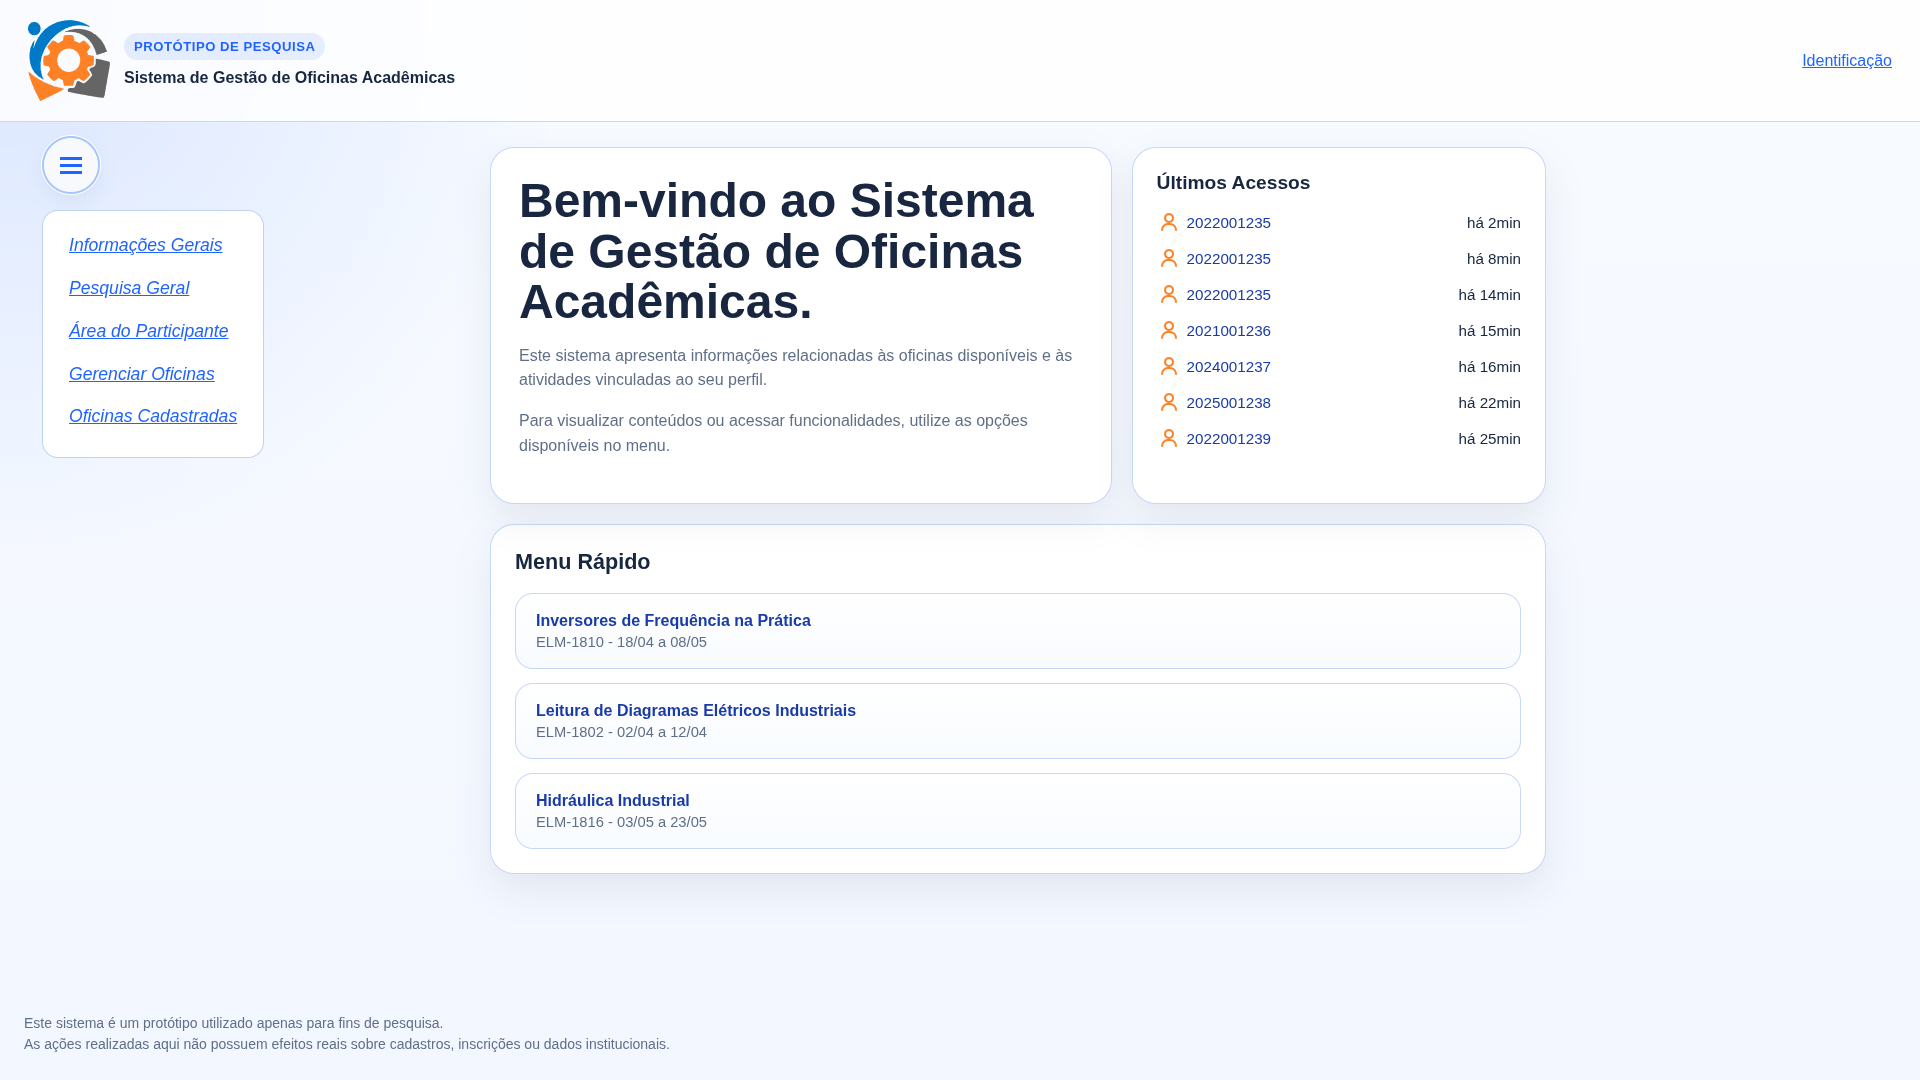
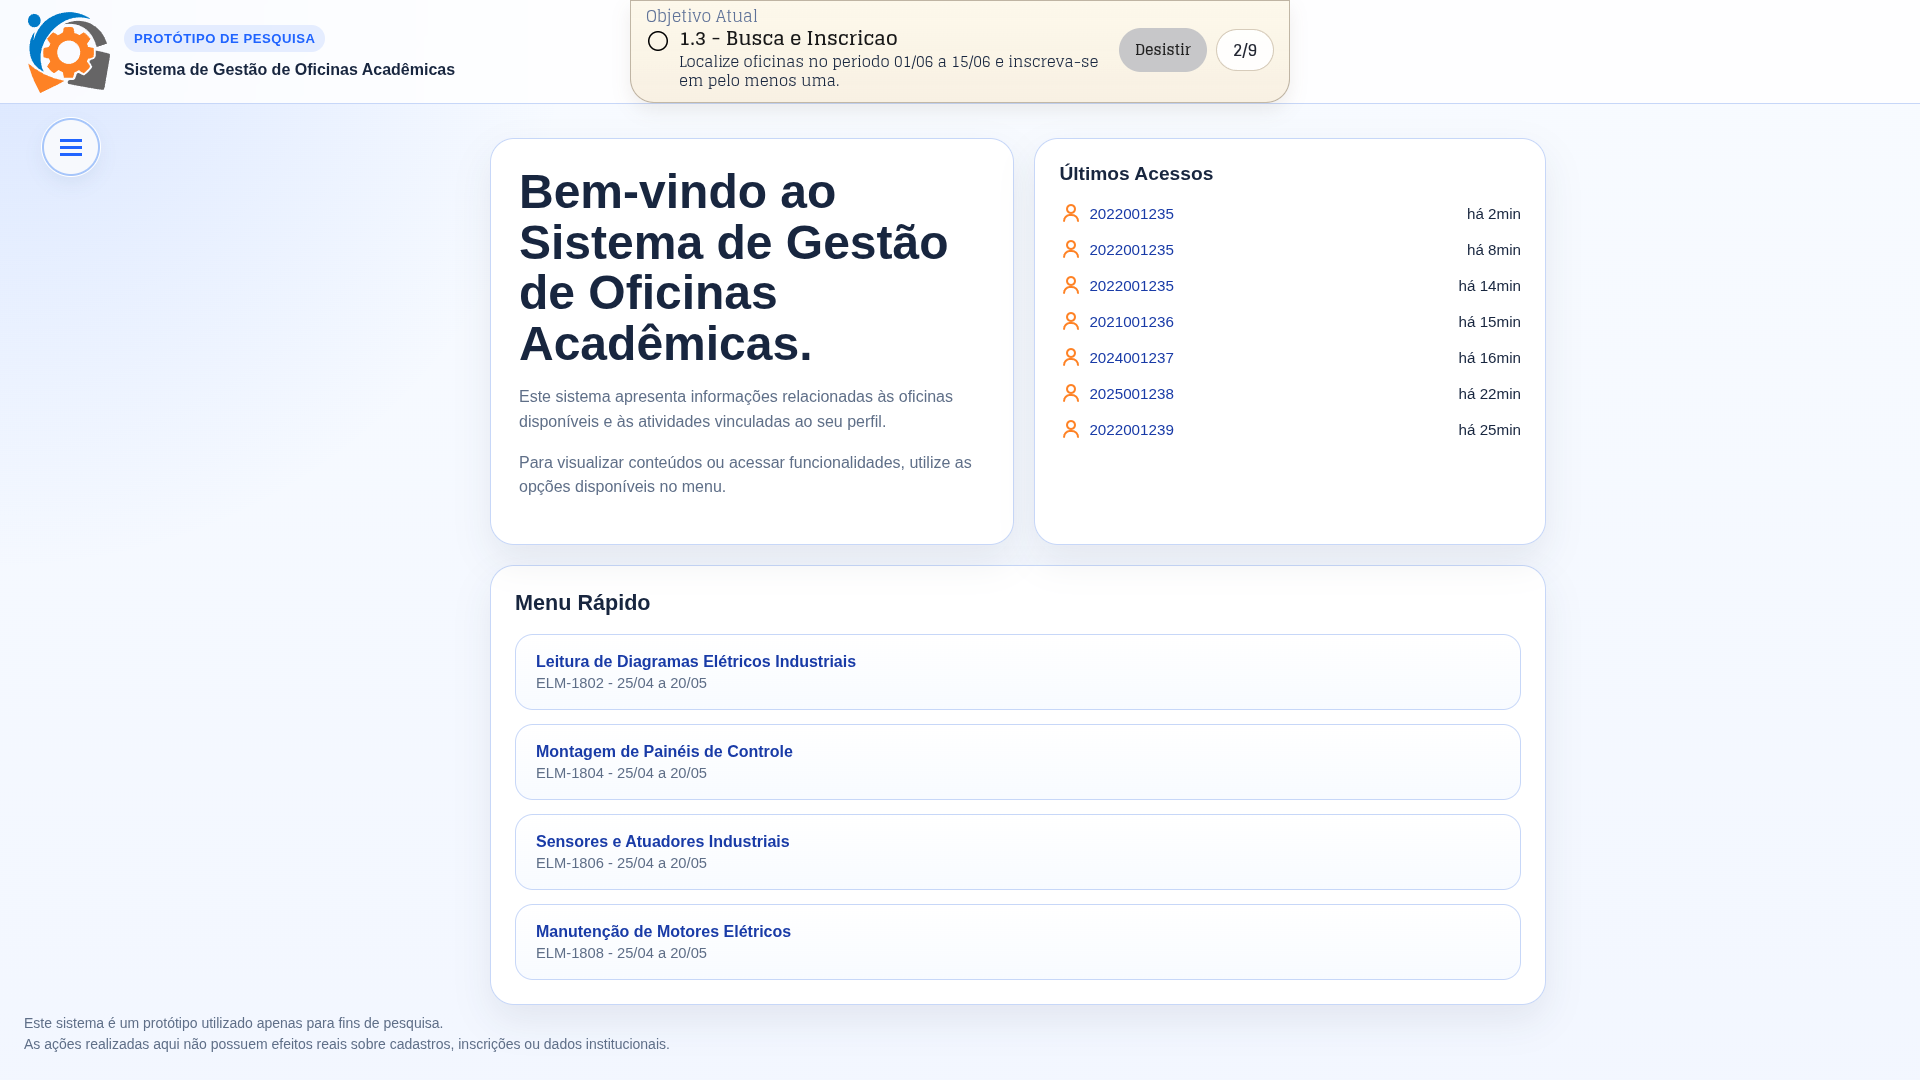
Organize research screenshots and metrics outputs

diff --git a/src/v2/styles.css b/src/v2/styles.css
@@ -137,17 +137,32 @@ button img {
 .header-title-area h1 {
   margin: 0;
   color: var(--template-navy);
-  font-size: 2.73rem;
+  font-size: clamp(1rem, 2.2vw, 2rem);
   font-weight: 600;
-  line-height: 1.05;
+  line-height: 1.08;
   letter-spacing: 0;
+  max-width: 14.5em;
+  text-wrap: balance;
 }
 
 .header-title-area {
   display: flex;
   align-items: center;
-  gap: clamp(16px, 1.46vw, 28px);
+  gap: clamp(8px, 1.05vw, 12px);
+  flex: 1 1 auto;
   min-width: 0;
+  max-width: min(590px, calc(50vw - 56px));
+}
+
+.header-logo {
+  width: clamp(82px, 6.7vw, 142px);
+  height: clamp(82px, 6.7vw, 137px);
+  flex: 0 0 auto;
+  object-fit: contain;
+}
+
+.app-shell:is([data-active-view="oficinas"], [data-active-view="gerenciar"]) .header-logo {
+  display: none;
 }
 
 .app-shell[data-active-view="oficinas"] .header-title-area::before,
@@ -4602,6 +4617,15 @@ body:has(.office-modal:not([hidden])) .toast-stack {
     font-size: 1.7rem;
   }
 
+  .header-title-area {
+    max-width: min(430px, calc(50vw - 36px));
+  }
+
+  .header-logo {
+    width: 82px;
+    height: 82px;
+  }
+
   .profile-button {
     font-size: 1.25rem;
     min-width: 178px;
@@ -4610,11 +4634,6 @@ body:has(.office-modal:not([hidden])) .toast-stack {
   .app-shell:is([data-active-view="oficinas"], [data-active-view="gerenciar"]) .profile-button {
     min-width: 180px;
     font-size: 1.25rem;
-  }
-
-  .app-shell:is([data-active-view="oficinas"], [data-active-view="gerenciar"]) .header-title-area::before {
-    width: 85px;
-    height: 85px;
   }
 
   .home-action-card {
@@ -4791,6 +4810,8 @@ body:has(.office-modal:not([hidden])) .toast-stack {
 
   .header-title-area {
     min-width: 0;
+    max-width: 100%;
+    flex: 1 1 100%;
   }
 
   .header-title-area h1 {
@@ -4798,9 +4819,9 @@ body:has(.office-modal:not([hidden])) .toast-stack {
     overflow-wrap: anywhere;
   }
 
-  .app-shell:is([data-active-view="oficinas"], [data-active-view="gerenciar"]) .header-title-area::before {
-    width: 85px;
-    height: 85px;
+  .header-logo {
+    width: 64px;
+    height: 64px;
   }
 
   .sidebar {

diff --git a/src/v2/app.js b/src/v2/app.js
@@ -53,6 +53,7 @@
   let carouselIntervalId = null;
   let hasQueuedMetricsExport = false;
   let currentViewName = "home";
+  let latestState = null;
   let quickGuideLastFocusedElement = null;
 
   function getViewportSnapshot() {
@@ -61,6 +62,42 @@
       height: global.innerHeight || documentRef.documentElement.clientHeight || 0,
       devicePixelRatio: global.devicePixelRatio || 1,
     };
+  }
+
+  function getOfficeModalTrackingViewName(state) {
+    if (!state || !state.isOfficeModalOpen || !state.selectedWorkshop) {
+      return "";
+    }
+
+    if (state.selectedWorkshopSource === "quick_access") {
+      return "home-modal-acesso-rapido";
+    }
+
+    if (state.selectedWorkshopSource === "manage") {
+      return "gerenciar-modal-minhas-oficinas";
+    }
+
+    return "oficinas-modal-explorar-oficinas";
+  }
+
+  function getCurrentTrackingViewName() {
+    const state = latestState || controller.getState();
+    const activeView = state.activeView || currentViewName || "home";
+    const officeModalViewName = getOfficeModalTrackingViewName(state);
+
+    if (officeModalViewName) {
+      return officeModalViewName;
+    }
+
+    if (quickGuideModal && !quickGuideModal.hidden) {
+      return "home-modal-guia-rapido";
+    }
+
+    if (profileMenu && profileMenu.open) {
+      return `${activeView}-menu-perfil`;
+    }
+
+    return activeView;
   }
 
   function bindGlobalClickMetrics() {
@@ -77,7 +114,7 @@
         metrics.trackClick({
           x: event.clientX,
           y: event.clientY,
-          viewName: currentViewName,
+          viewName: getCurrentTrackingViewName(),
         });
       }
     });
@@ -88,7 +125,7 @@
       metrics.trackMousePosition({
         x: event.clientX,
         y: event.clientY,
-        viewName: currentViewName,
+        viewName: getCurrentTrackingViewName(),
       });
     }, { passive: true });
 
@@ -613,6 +650,7 @@
   bindMetricsExport();
   bindReloadProtection();
   controller.subscribe((state) => {
+    latestState = state;
     currentViewName = state.activeView;
     renderer.render(state);
   });

diff --git a/src/v2/render.js b/src/v2/render.js
@@ -11,6 +11,19 @@
     return "Sistema de Gestão de Oficinas Acadêmicas";
   }
 
+  function syncScreenTitle(element, state, documentRef) {
+    if (state && state.activeView === "home") {
+      element.replaceChildren(
+        documentRef.createTextNode("Sistema de Gestão"),
+        documentRef.createElement("br"),
+        documentRef.createTextNode("de Oficinas Acadêmicas"),
+      );
+      return;
+    }
+
+    element.textContent = getTextContent(state);
+  }
+
   const ONBOARDING_TOUR_STEPS = [
     {
       id: "card",
@@ -1869,7 +1882,7 @@
         syncHeaderNavigation(state);
 
         if (elements.screenTitle) {
-          elements.screenTitle.textContent = getTextContent(state);
+          syncScreenTitle(elements.screenTitle, state, documentRef);
         }
 
         syncObjectiveTransitionState(state);

diff --git a/v2/index.html b/v2/index.html
@@ -13,7 +13,8 @@
   <div class="app-shell" inert aria-hidden="true">
     <header class="app-header">
       <div class="header-title-area">
-        <h1 id="screen-title">Sistema de Gestão de Oficinas Acadêmicas</h1>
+        <img class="header-logo" src="../assets/images/logo_v2.svg" alt="" aria-hidden="true" draggable="false">
+        <h1 id="screen-title">Sistema de Gestão<br>de Oficinas Acadêmicas</h1>
       </div>
 
       <details class="profile-menu">

diff --git a/src/common/logic.js b/src/common/logic.js
@@ -1175,6 +1175,7 @@
 
         addParticipantRecord(`Acessou oficina “${workshop.title}”`);
 
+        handleWorkshopOpened(workshop, "manage");
         notify();
         return true;
       },

diff --git a/tools/visualization/heatmaps.py b/tools/visualization/heatmaps.py
@@ -115,7 +115,12 @@ def generate_session_heatmaps(
                 ui_version=session_source.ui_version,
             )
             width, height = get_image_size(background_path) or DEFAULT_CANVAS_SIZE
-            output_path = output_dir / session_source.session_stem / f"{normalize_file_stem(view_name)}.svg"
+            output_path = (
+                output_dir
+                / session_source.ui_version
+                / session_source.session_stem
+                / f"{normalize_file_stem(view_name)}.svg"
+            )
             output_path.parent.mkdir(parents=True, exist_ok=True)
             output_path.write_text(
                 render_heatmap_svg(

diff --git a/tools/analyze_metrics.py b/tools/analyze_metrics.py
@@ -156,7 +156,7 @@ def generate_all_mouse_tracking_outputs(
     output_paths: list[Path] = []
 
     for session_source in session_sources:
-        session_output_dir = output_dir / session_source.session_stem
+        session_output_dir = output_dir / session_source.ui_version / session_source.session_stem
         output_paths.extend(
             generate_mouse_tracking_outputs(
                 session_source,

diff --git a/tools/assets/screenshots/v2/README.md b/tools/assets/screenshots/v2/README.md
@@ -1,0 +1,29 @@
+# Screenshots da v2 para metricas
+
+Estes arquivos sao usados como fundo dos SVGs de mouse tracking e heatmap.
+
+O pipeline resolve primeiro `tools/assets/screenshots/v2/<view>.png` antes de cair em `tools/assets/screenshots/common/`.
+
+## Mapeamento
+
+| Contexto registrado | Arquivo |
+| --- | --- |
+| `home` | `home.png` |
+| `home-menu-perfil` | `home-menu-perfil.png` |
+| `home-modal-acesso-rapido` | `home-modal-acesso-rapido.png` |
+| `oficinas` | `oficinas.png` |
+| `oficinas-modal-explorar-oficinas` | `oficinas-modal-explorar-oficinas.png` |
+| `gerenciar` | `gerenciar.png` |
+| `gerenciar-modal-minhas-oficinas` | `gerenciar-modal-minhas-oficinas.png` |
+
+## Origem
+
+- `prints_v2/tela_inicial.png` -> `home.png`
+- `prints_v2/tela_inicial.png` -> `home-menu-perfil.png`
+- `prints_v2/tela_inicial_acesso_rapido.png` -> `home-modal-acesso-rapido.png`
+- `prints_v2/explorar_oficinas.png` -> `oficinas.png`
+- `prints_v2/explorar_oficinas_detalhe.png` -> `oficinas-modal-explorar-oficinas.png`
+- `prints_v2/minhas_oficinas.png` -> `gerenciar.png`
+- `prints_v2/minhas_oficinas_detalhes.png` -> `gerenciar-modal-minhas-oficinas.png`
+
+Os JSONs antigos da pesquisa registram apenas `home`, `oficinas` e `gerenciar` na v2. Os contextos de modal/menu passam a ser registrados nas proximas coletas apos a atualizacao de `src/v2/app.js`.